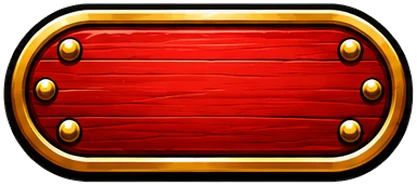
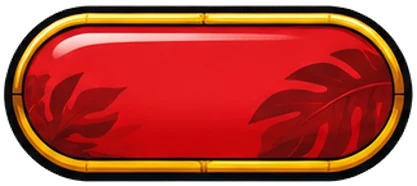
Habillage Tropical (planche de Loubi) à la place de Bois, mêmes réglages de bulles (lf-343)
Claude-Session: https://claude.ai/code/session_01Agff8va3qxXu2Vw43sb54j

diff --git a/index.html b/index.html
@@ -3560,7 +3560,7 @@ html body #hist #hBody .h2big em{grid-column:1/-1;text-align:center;font:400 12p
 html body #hist #hBody .h2last{grid-column:1/-1;display:flex;gap:6px;justify-content:center;align-items:center}
 html body #hist #hBody .h2last i{width:14px;height:14px;border-radius:50%;background:var(--pc)}
 html body #hist #hBody .h2last small{font:400 11px "Lbl",sans-serif;color:var(--mute);margin-left:6px}
-/* ===== habillage « Bois » (Cricket 1 contre 1 ; clé interne « casino ») : images dessinées par Loubi, découpées depuis sa planche ; « Base » = rendu normal ===== */
+/* ===== habillage « Tropical » (Cricket 1 contre 1 ; clé interne « casino ») : images dessinées par Loubi, découpées depuis sa planche ; « Base » = rendu normal ===== */
 html body.skin-casino #game#game#game#game.p2 .sc.act{background:transparent!important;box-shadow:none!important}
 html body.skin-casino #game#game#game#game.p2 .sc.act::after{opacity:0!important}
 html body.skin-casino #game#game#game#game.p2 .sc.act::before{content:'';position:absolute;inset:-5px;background:url(skins/casino/carte.webp) 0 0/100% 100% no-repeat;z-index:-1;pointer-events:none}
@@ -7100,13 +7100,13 @@ $('grid').addEventListener('click',e=>{if(!BARC)return;e.stopImmediatePropagatio
 /* ===== thème : 3 réglages de couleur (fond, contours et textes, bulles) ===== */
 /* thème unique (Bulle d'origine) : on efface les anciens réglages de couleurs et de style */
 if(S.th||S.style||S.pfT||S.pfN||S.pst){['th','style','pfT','pfN','pst'].forEach(k=>delete S[k]);try{store.set(K_S,S)}catch(e){}}
-const APPV='lf-342';   // à changer avec VERSION dans sw.js
+const APPV='lf-343';   // à changer avec VERSION dans sw.js
 ['--m-bg','--m-card','--m-line','--m-strongtx','--btx','--accent','--acc-rgb','--m-home','--ui-bg','--page','--m-cell','--ink','--m-ink','--m-strong','--mute','--m-sub'].forEach(k=>document.documentElement.style.removeProperty(k));
 try{colApply()}catch(e){}   // couleurs choisies : rétablies à chaque ouverture
 $('skinT').addEventListener('click',e=>{e.stopPropagation();haptic();SFX.ui();
   const old=$('xpick');if(old)old.remove();
   const p=el('div','');p.id='xpick';p.classList.add('skinpick');document.body.append(p);
-  const draw=()=>{p.innerHTML=`<div class="skn"><button class="skgo" data-go="hStats">Statistiques</button><button class="skgo" data-go="hHist">Historique</button><button class="skprof">Joueurs</button></div><div class="skp"><span>Son</span><div class="sksw sksnd3"><button data-s="0" class="${S.sound?'':'on'}">Non</button><button data-s="1" class="${S.sound&&S.voice===false?'on':''}">Effets</button><button data-s="2" class="${S.sound&&S.voice!==false?'on':''}">+ Voix</button></div></div><div class="skp"><span>Habillage</span><div class="sksw sksk"><button data-k="" class="${S.skin==='casino'?'':'on'}">Base</button><button data-k="casino" class="${S.skin==='casino'?'on':''}">Bois</button></div></div><div class="skp"><span>Couleurs des joueurs</span><div class="sksw"><button data-p="1" class="${S.pcolOff?'':'on'}">Oui</button><button data-p="0" class="${S.pcolOff?'on':''}">Non</button></div></div>`+colMenu()+`<button class="skadv">Avancé <i>${SKADV?'▴':'▾'}</i></button>${SKADV?`<div class="skp skjeux"><span>Mise en page des jeux</span></div><div class="skdemo"><button data-d="ck2">Cricket 1v1</button><button data-d="ck3">Cricket 3</button><button data-d="ck4">Cricket 4</button><button data-d="ck5">Cricket 5+</button><button data-d="x2">501 1v1</button><button data-d="xn">501 3+</button><button data-d="kl">Killer 6</button><button data-d="kl7">Killer 7+</button><button data-d="clk">Horloge</button></div><div class="skp skjeux"><span>Affichage des tableaux</span></div><div class="skdemo skdisp"><button data-ds="st">Statistiques</button><button data-ds="hl">Historique</button><button data-ds="hg">Fiche de partie</button></div><button class="skdanger">Effacer des données…</button>`:''}<div class="skv">version ${APPV}</div>`;if(p.style.top)p.style.top=Math.max(12,Math.min(parseFloat(p.style.top),innerHeight-p.offsetHeight-12))+'px'};
+  const draw=()=>{p.innerHTML=`<div class="skn"><button class="skgo" data-go="hStats">Statistiques</button><button class="skgo" data-go="hHist">Historique</button><button class="skprof">Joueurs</button></div><div class="skp"><span>Son</span><div class="sksw sksnd3"><button data-s="0" class="${S.sound?'':'on'}">Non</button><button data-s="1" class="${S.sound&&S.voice===false?'on':''}">Effets</button><button data-s="2" class="${S.sound&&S.voice!==false?'on':''}">+ Voix</button></div></div><div class="skp"><span>Habillage</span><div class="sksw sksk"><button data-k="" class="${S.skin==='casino'?'':'on'}">Base</button><button data-k="casino" class="${S.skin==='casino'?'on':''}">Tropical</button></div></div><div class="skp"><span>Couleurs des joueurs</span><div class="sksw"><button data-p="1" class="${S.pcolOff?'':'on'}">Oui</button><button data-p="0" class="${S.pcolOff?'on':''}">Non</button></div></div>`+colMenu()+`<button class="skadv">Avancé <i>${SKADV?'▴':'▾'}</i></button>${SKADV?`<div class="skp skjeux"><span>Mise en page des jeux</span></div><div class="skdemo"><button data-d="ck2">Cricket 1v1</button><button data-d="ck3">Cricket 3</button><button data-d="ck4">Cricket 4</button><button data-d="ck5">Cricket 5+</button><button data-d="x2">501 1v1</button><button data-d="xn">501 3+</button><button data-d="kl">Killer 6</button><button data-d="kl7">Killer 7+</button><button data-d="clk">Horloge</button></div><div class="skp skjeux"><span>Affichage des tableaux</span></div><div class="skdemo skdisp"><button data-ds="st">Statistiques</button><button data-ds="hl">Historique</button><button data-ds="hg">Fiche de partie</button></div><button class="skdanger">Effacer des données…</button>`:''}<div class="skv">version ${APPV}</div>`;if(p.style.top)p.style.top=Math.max(12,Math.min(parseFloat(p.style.top),innerHeight-p.offsetHeight-12))+'px'};
   const colMenu=()=>{const C=colGet(),dot=v=>`<i style="background:${v}"></i>`;return `<button class="crow cmain"><span>Apparence de l'appli</span><b>${dot(colAcc())}${dot(C.ol==='acc'?colAcc():C.ol)}${dot(C.bg)}</b></button>`};
   draw();p.style.left=Math.max(12,(innerWidth-p.offsetWidth)/2)+'px';p.style.top=Math.max(12,Math.min(innerHeight-p.offsetHeight-12,e.currentTarget.getBoundingClientRect().bottom+10))+'px';
   p.addEventListener('click',ev=>{ev.stopPropagation();const go=ev.target.closest('.skgo');if(go){p.remove();$(go.dataset.go).dispatchEvent(new MouseEvent('click',{bubbles:true}));return}

diff --git a/sw.js b/sw.js
@@ -1,7 +1,7 @@
 /* Loubard Fléchard — hors ligne + mises à jour automatiques.
    Page : réseau d'abord (version la plus récente), cache si pas de réseau.
    Change VERSION à chaque mise à jour publiée. */
-const VERSION='lf-342';
+const VERSION='lf-343';
 const FILES=['./','index.html','sync.js','scenes.js','manifest.json','art/lexend.woff','art/ui-300.woff','art/ui-600.woff','art/ui-750.woff','art/ui-900.woff','art/fun.woff','art/funl.woff','art/funtxt.woff','art/lbl.woff','icon-180.png','icon-192.png','icon-512.png','skins/casino/accueil.webp','skins/casino/annuler.webp','skins/casino/barre.webp','skins/casino/carte.webp','skins/casino/couronne.webp','skins/casino/curseur.webp','skins/casino/disque.webp','skins/casino/num.webp','skins/casino/num_mort.webp','skins/casino/p_d.webp','skins/casino/p_e.webp','skins/casino/p_s.webp','skins/casino/p_t.webp','skins/casino/p_z.webp','skins/casino/pa.webp','skins/casino/pa_d.webp','skins/casino/pa_t.webp','skins/casino/pa_z.webp','skins/casino/rail.webp','skins/casino/trait1.webp','skins/casino/trait2.webp'];
 self.addEventListener('install',e=>{e.waitUntil(caches.open(VERSION)
   .then(c=>Promise.all(FILES.map(f=>fetch(f,{cache:'reload'}).then(r=>r.ok&&c.put(f,r)).catch(()=>{}))))
